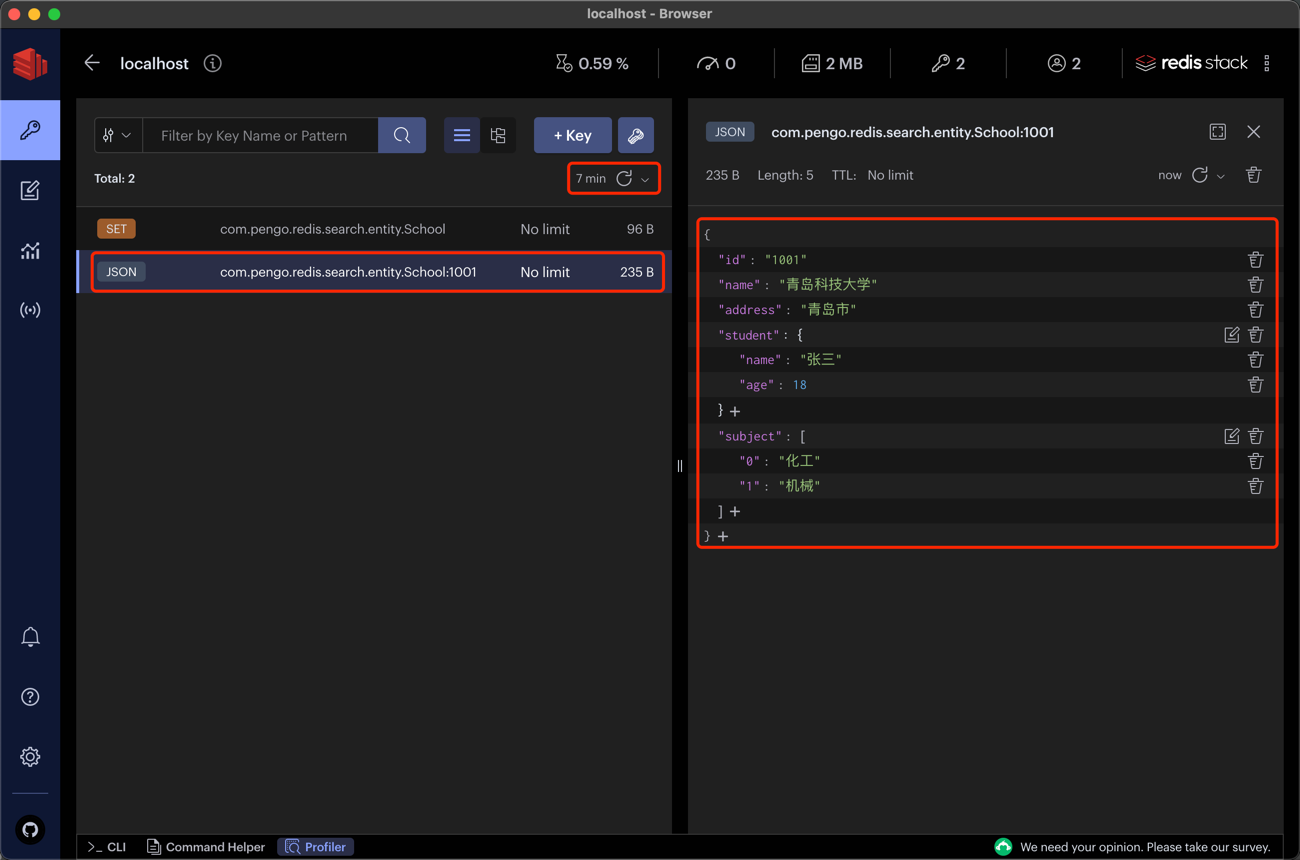
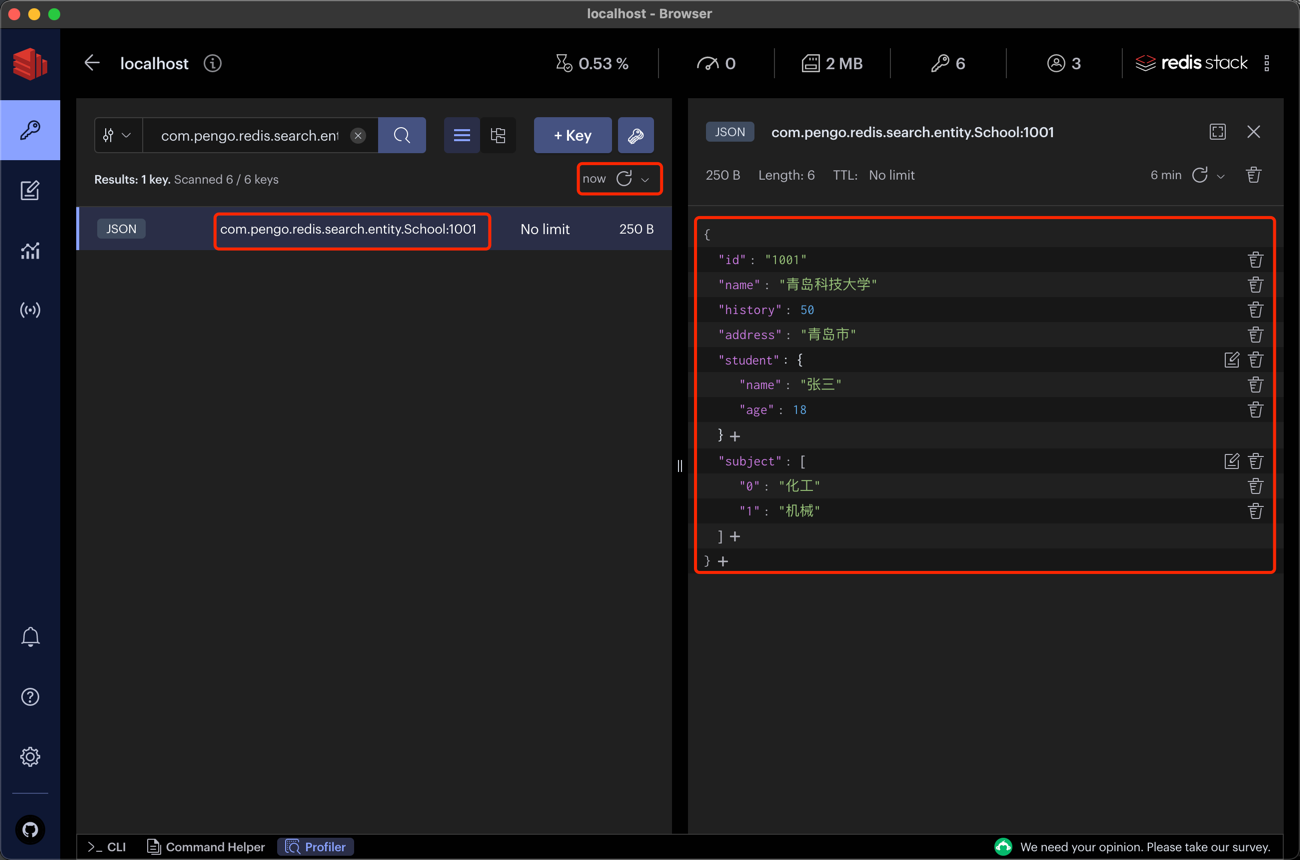
add test method

diff --git a/src/test/java/com/pengo/redis/search/RedisSearchSpringbootApplicationTests.java b/src/test/java/com/pengo/redis/search/RedisSearchSpringbootApplicationTests.java
@@ -1,8 +1,8 @@
 package com.pengo.redis.search;
 
-import com.pengo.redis.search.entity.School;
-import com.pengo.redis.search.entity.Student;
-import com.pengo.redis.search.mapper.SchoolRepository;
+import com.pengo.redis.search.entity.*;
+import com.pengo.redis.search.mapper.CountryRepository;
+import com.pengo.redis.search.service.CountryService;
 import org.junit.jupiter.api.Test;
 import org.springframework.beans.factory.annotation.Autowired;
 import org.springframework.boot.test.context.SpringBootTest;
@@ -14,28 +14,45 @@ import java.util.Set;
 class RedisSearchSpringbootApplicationTests {
 
     @Autowired
-    private SchoolRepository schoolRepository;
+    private CountryRepository countryRepository;
+    @Autowired
+    private CountryService countryService;
 
     @Test
-    void initData() {
-        schoolRepository.deleteAll();
+    void initCountry() {
+        countryRepository.deleteAll();
 
-        Student zhangsan = new Student("张三", 18);
-        School qdScience = new School("1001", "青岛科技大学", 50, "青岛市", zhangsan, Set.of("机械", "化工"));
+        Country c1 = new Country();
+        Province p1 = new Province();
+        p1.setProName("shanghai");
+        p1.setArea(100);
+        c1.setName("china");
+        c1.setProvince(p1);
+        c1.setFlag(Set.of("a", "b", "c"));
 
-        Student lisi = new Student("lisi", 20);
-        School sdCollege = new School("1002", "山东大学", 60, "济南市", lisi, Set.of("音乐", "美术"));
+        Country c2 = new Country();
+        Province p2 = new Province();
+        p2.setProName("beijing");
+        p2.setArea(200);
+        c2.setName("china2");
+        c2.setProvince(p2);
+        c2.setFlag(Set.of("d", "e", "f"));
 
-        Student wangwu = new Student("wangwu", 22);
-        School ytCollege = new School("1003", "烟台大学", 70, "烟台市", wangwu, Set.of("跳高", "跳远"));
+        countryRepository.saveAll(List.of(c1, c2));
+    }
 
-        Student zhaoliu = new Student("zhaoliu", 24);
-        School rzCollege = new School("1004", "日照大学", 80, "日照市", zhaoliu, Set.of("语文", "数学"));
-
-        Student xiaoming = new Student("xiaoming", 26);
-        School hzCollege = new School("1005", "菏泽大学", 90, "菏泽市", xiaoming, Set.of("政治", "英语"));
-
-
-        schoolRepository.saveAll(List.of(qdScience, sdCollege, ytCollege, rzCollege, hzCollege));
+    @Test
+    void testCountry() {
+        Iterable<Country> shanghai = countryRepository.findByProvince_ProName("shanghai");
+        System.out.println(shanghai);
+        System.out.println("------");
+        Iterable<Country> a = countryRepository.findByFlag(Set.of("a"));
+        System.out.println(a);
+        System.out.println("------");
+        Iterable<Country> allCountry = countryService.findAllCountry();
+        System.out.println(allCountry);
+        System.out.println("------");
+        Iterable<Country> china = countryService.findByName("china");
+        System.out.println(china);
     }
 }

diff --git a/src/main/java/com/pengo/redis/search/service/CountryService.java b/src/main/java/com/pengo/redis/search/service/CountryService.java
@@ -1,0 +1,28 @@
+package com.pengo.redis.search.service;
+
+import com.pengo.redis.search.entity.Country;
+import com.pengo.redis.search.entity.Country$;
+import com.redis.om.spring.search.stream.EntityStream;
+import org.springframework.beans.factory.annotation.Autowired;
+import org.springframework.stereotype.Service;
+
+import java.util.stream.Collectors;
+
+@Service
+public class CountryService {
+    @Autowired
+    EntityStream entityStream;
+
+    public Iterable<Country> findAllCountry() {
+        return entityStream.of(Country.class)
+                .limit(10)
+                .collect(Collectors.toList());
+    }
+
+    public Iterable<Country> findByName(String name) {
+        return entityStream.of(Country.class)
+                .filter(Country$.NAME.eq(name))
+                .limit(10)
+                .collect(Collectors.toList());
+    }
+}

diff --git a/src/main/java/com/pengo/redis/search/entity/Country.java b/src/main/java/com/pengo/redis/search/entity/Country.java
@@ -1,0 +1,26 @@
+package com.pengo.redis.search.entity;
+
+import com.redis.om.spring.annotations.Document;
+import com.redis.om.spring.annotations.Indexed;
+import lombok.Data;
+import org.springframework.data.annotation.Id;
+
+import java.util.Set;
+
+@Document
+@Data
+public class Country {
+
+    @Id
+    @Indexed
+    private String id;
+
+    @Indexed
+    private String name;
+
+    @Indexed
+    private Province province;
+
+    @Indexed
+    private Set<String> flag;
+}

diff --git a/src/main/java/com/pengo/redis/search/mapper/CountryRepository.java b/src/main/java/com/pengo/redis/search/mapper/CountryRepository.java
@@ -1,0 +1,13 @@
+package com.pengo.redis.search.mapper;
+
+import com.pengo.redis.search.entity.Country;
+import com.redis.om.spring.repository.RedisDocumentRepository;
+
+import java.util.Set;
+
+public interface CountryRepository extends RedisDocumentRepository<Country, String> {
+
+    Iterable<Country> findByProvince_ProName(String name);
+
+    Iterable<Country> findByFlag(Set<String> flag);
+}

diff --git a/src/main/java/com/pengo/redis/search/entity/Province.java b/src/main/java/com/pengo/redis/search/entity/Province.java
@@ -1,0 +1,15 @@
+package com.pengo.redis.search.entity;
+
+import com.redis.om.spring.annotations.Indexed;
+import lombok.Data;
+
+@Data
+public class Province {
+
+    @Indexed
+    private String proName;
+
+    @Indexed
+    private Integer area;
+
+}

diff --git a/README.md b/README.md
@@ -56,6 +56,7 @@ docker-compose up -d
     </dependencies>
 ```
 2. create School and Student model:
+
 ```java
 @NoArgsConstructor
 @AllArgsConstructor
@@ -70,7 +71,7 @@ public class School {
     @Searchable
     private String name;
 
-    @Searchable
+    @Indexed
     private Integer history;
 
     @Searchable
